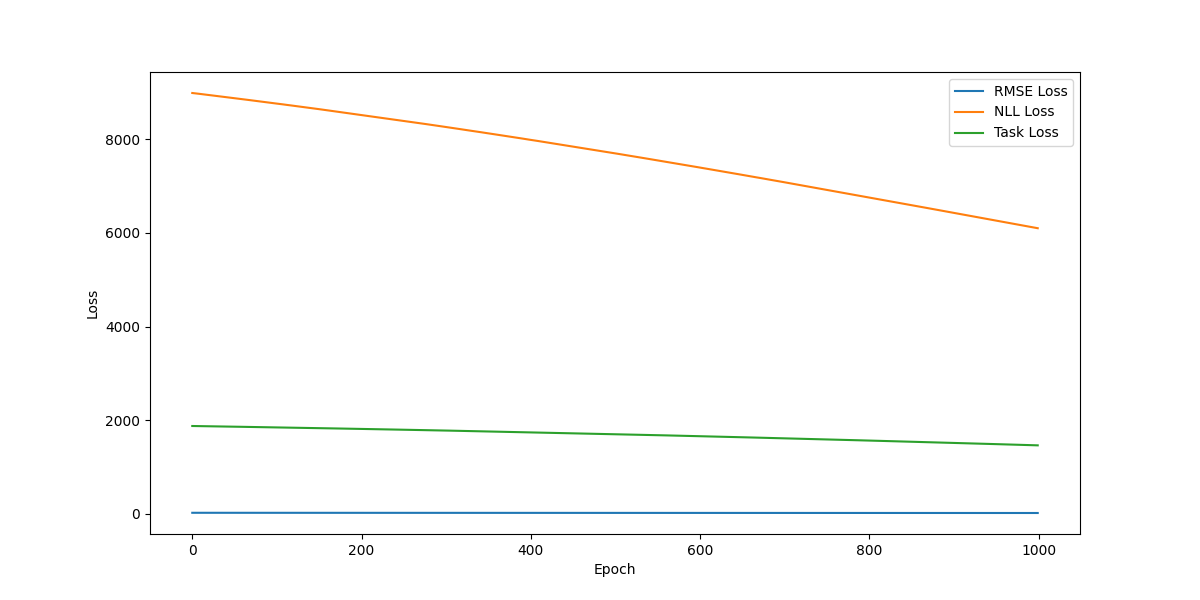
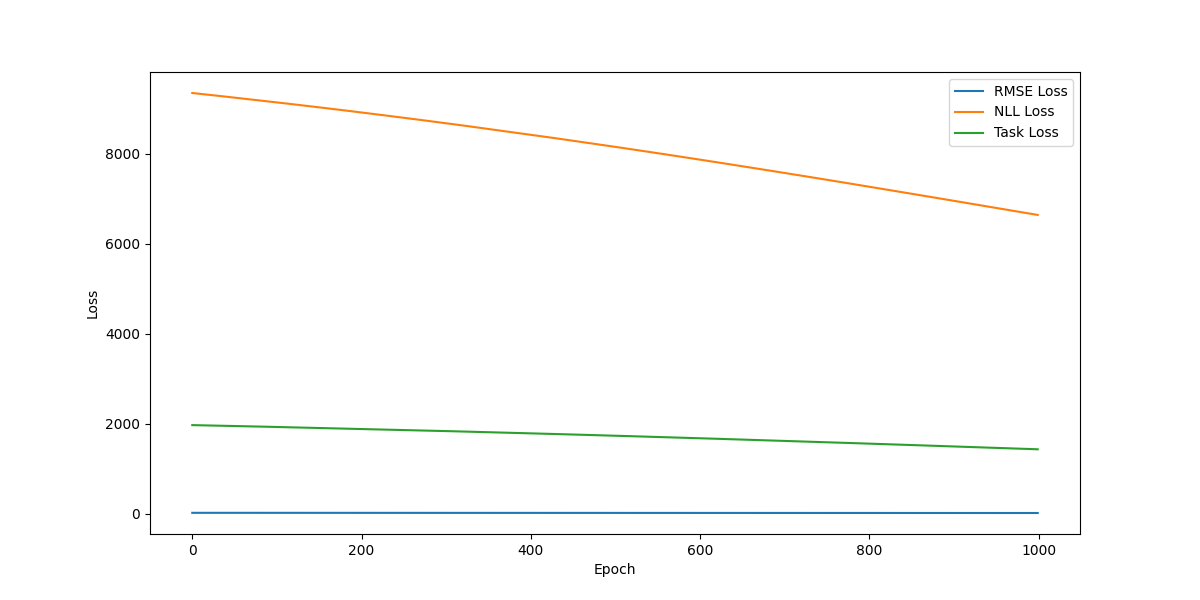
Finished task vs. rmse loss code, data files, just need to add graphs

diff --git a/new_nets.py b/new_nets.py
@@ -7,19 +7,31 @@ import torch.optim as optim
 import model_classes
 from torchdiffeq import odeint
 import math
+import sys
+import csv
 
-def task_loss(Y_sched, Y_actual, params):
+def task_train_loss(Y_sched, Y_actual, params):
     # return (params["gamma_under"] * torch.clamp(Y_actual - Y_sched, min=0) + 
     #         params["gamma_over"] * torch.clamp(Y_sched - Y_actual, min=0) + 
     #         0.5 * (Y_sched - Y_actual)**2).mean()
-    under_loss = params["gamma_under"] * torch.clamp(Y_actual - Y_sched, min=0)
-    over_loss = params["gamma_over"] * torch.clamp(Y_sched - Y_actual, min=0)
-    mse_loss = (Y_sched - Y_actual)**2
-    total_loss = (under_loss + over_loss + mse_loss).mean()
+    under_loss = params["c_b"] * torch.clamp(Y_actual - Y_sched, min=0)
+    over_loss = params["c_h"] * torch.clamp(Y_sched - Y_actual, min=0)
+    under_loss_squared = params["q_b"] * torch.clamp((Y_actual - Y_sched)**2, min=0)
+    over_loss_squared = params["q_h"] * torch.clamp((Y_sched - Y_actual)**2, min=0)
+    total_loss = (under_loss + over_loss + over_loss_squared + under_loss_squared).mean()
     return total_loss
     # return mse_loss.mean()
 
-def rmse_loss(Y_sched, Y_actual):
+def task_test_loss(Y_sched, Y_actual, params):
+    under_loss = params["c_b"] * torch.clamp(Y_actual - Y_sched, min=0)
+    over_loss = params["c_h"] * torch.clamp(Y_sched - Y_actual, min=0)
+    under_loss_squared = params["q_b"] * torch.clamp((Y_actual - Y_sched)**2, min=0)
+    over_loss_squared = params["q_h"] * torch.clamp((Y_sched - Y_actual)**2, min=0)
+    total_loss = (under_loss + over_loss + over_loss_squared + under_loss_squared)
+    return total_loss
+
+
+def rmse_train_loss(Y_sched, Y_actual):
     # mse_loss = nn.MSELoss()
     # mse = mse_loss(Y_sched, Y_actual)
     # rmse = torch.sqrt(mse)
@@ -28,31 +40,36 @@ def rmse_loss(Y_sched, Y_actual):
     rmse = torch.sqrt(mse)  # Compute root mean squared error
     return rmse
 
-def negative_log_likelihood(Y_sched, Y_actual, sigma):
-    n = len(Y_actual)
-    residuals = Y_actual - Y_sched
-    nll = 0.5 * n * torch.log(2 * torch.pi * sigma ** 2) + (residuals ** 2 / (2 * sigma ** 2)).sum()
-    return nll
+def rmse_test_loss(Y_sched, Y_actual):
+    diff = Y_sched - Y_actual
+    se = diff ** 2 # Compute squared error
+    rse = torch.sqrt(se)  # Compute root squared error
+    return rse
+
+# def negative_log_likelihood(Y_sched, Y_actual, sigma):
+#     n = len(Y_actual)
+#     residuals = Y_actual - Y_sched
+#     nll = 0.5 * n * torch.log(2 * torch.pi * sigma ** 2) + (residuals ** 2 / (2 * sigma ** 2)).sum()
+#     return nll
 
 #"which" and "save_folder" parameters not used
-def eval_net(which, variables, params, save_folder):
+def eval_net(loss, variables, params, save_folder):
     func = model_classes.ODEFunc()
 
     #Initialize sigma for NLL loss
-    sigma = torch.tensor([1.0], requires_grad=True)
+    # sigma = torch.tensor([1.0], requires_grad=True)
     # Lists to store loss values for comparison
-    rmse_losses = []
-    nll_losses = []
-    task_losses = []
+    rmse_train_losses = []
+    # nll_losses = []
+    task_train_losses = []
 
     # func.set_beta(0.5)
     y0 = torch.tensor([1938000.0 - 516.0, 0.0, 500.0, 5.0, 0.0, 0.0, 0.0, 5.0, 6.0, 0.0], dtype=torch.float32)
     ode_params = func.parameters()
     opt = optim.Adam(ode_params, lr=1e-3)
-    loss = torch.nn.MSELoss()
+    # loss = torch.nn.MSELoss()
 
     for epoch in range(1000):
-        #Where is this coming from?
         func.train()
         func.reset_t()
         opt.zero_grad()
@@ -66,20 +83,32 @@ def eval_net(which, variables, params, save_folder):
         Y_sched = Y_sched_train_total_hospitalizations.flatten()
         Y_actual = variables['Y_train']
 
-        train_loss = task_loss(Y_sched, Y_actual, params)
-        task_losses.append(train_loss.item())
+        if(loss == "task"):
+            task_loss = task_train_loss(Y_sched, Y_actual, params)
+            task_train_losses.append(task_loss.item())
+        elif(loss == "rmse"):
+            rmse_loss = rmse_train_loss(Y_sched, Y_actual)
+            rmse_train_losses.append(rmse_loss.item())
+        else:
+            sys.stderr.write("Error: Invalid loss function - Must be either 'rmse' or 'task'\n")
+            sys.exit(1)
+        
 
         # Compute RMSE loss
-        rmse = rmse_loss(Y_sched, Y_actual)
-        rmse_losses.append(rmse.item())
+        
         # Compute NLL loss
-        nll = negative_log_likelihood(Y_sched, Y_actual, sigma)
-        nll_losses.append(nll.item())
+        # nll = negative_log_likelihood(Y_sched, Y_actual, sigma)
+        # nll_losses.append(nll.item())
 
         # train_loss = loss(Y_sched_train[:, [6]], variables['Y_train'])
         
         # print(Y_sched_train)
-        train_loss.backward()
+        if(loss == "rmse"):
+            rmse_loss.backward()
+        elif(loss == "task"):
+            task_loss.backward()
+
+        
         torch.nn.utils.clip_grad_norm_(ode_params, 1e-1)
         opt.step()
         #print('beta:', func.beta)
@@ -94,32 +123,62 @@ def eval_net(which, variables, params, save_folder):
         #     test_loss = task_loss(Y_sched_test_total_hospitalizations.float(), variables['Y_test'].float(), params)
         
         # print(i, train_loss.item(), test_loss.item())
-        if epoch % 100 == 0:
-            print(f'Epoch {epoch}: RMSE = {rmse.item():.4f}, NLL = {nll.item():.4f}, Task Loss = {train_loss.item():.4f}')
+        if epoch % 100 == 0 and loss == "task":
+            print(f'Epoch {epoch}: Task Loss = {task_loss.item():.4f}')
+        elif epoch % 100 == 0 and loss == "rmse":
+            print(f'Epoch {epoch}: RMSE Loss = {rmse_loss.item():.4f}')
+
         # import pdb
         # pdb.set_trace()
 
     func.eval()
-    
+    func.reset_t()
+    # task_test_loss
+    # rmse_test_loss
+
+    # with torch.no_grad():
+    Y_sched_test = odeint(func, y0, torch.linspace(0, len(variables['Y_test']) + len(variables['Y_train']), len(variables['Y_test']) + len(variables['Y_train'])), method='rk4')
+    Y_sched_test_new = Y_sched_test[len(variables['Y_train']):]
+    Y_sched_test_total_hospitalizations = Y_sched_test_new[:, 6] + Y_sched_test_new[:, 7]
+    # import pdb
+    # pdb.set_trace()
+    task_testing_loss = task_test_loss(Y_sched_test_total_hospitalizations.float(), variables['Y_test'].float(), params)
+    rmse_testing_loss = rmse_test_loss(Y_sched_test_total_hospitalizations.float(), variables['Y_test'].float())
+
 
     # Output the final RMSE and NLL values
-    print(f'Final RMSE: {rmse.item():.4f}')
-    print(f'Final NLL: {nll.item():.4f}')
+    # print(f'Final RMSE Train Loss: {rmse.item():.4f}')
+    # print(f'Final Task Train Loss: {train_loss.item():.4f}')
 
-    # Plot the loss values
-    import matplotlib.pyplot as plt
+    #Output testing data
+    print("")
+    print("Here's all the testing data:")
+    print("Task Test Loss:")
+    print(task_testing_loss)
+    print("RMSE Test Loss:")
+    print(rmse_testing_loss)
 
-    plt.figure(figsize=(12, 6))
-    plt.plot(rmse_losses, label='RMSE Loss')
-    plt.plot(nll_losses, label='NLL Loss')
-    plt.plot(task_losses, label='Task Loss')
-    plt.xlabel('Epoch')
-    plt.ylabel('Loss')
-    plt.legend()
+    # # Plot the loss values
+    # import matplotlib.pyplot as plt
 
-    save_path = '/Users/amums/dl-research/covid/loss_comparison_plot.png'
-    os.makedirs(os.path.dirname(save_path), exist_ok=True)
-    plt.savefig(save_path)
+    days = np.arange(1, 8)
+    data = np.column_stack((days, task_testing_loss.detach(), rmse_testing_loss.detach()))
 
-    plt.show()
+    with open(loss + '_results.csv', mode='w', newline='') as file:
+        writer = csv.writer(file)
+        writer.writerow(['Day', 'Task Loss', 'RMSE Loss'])
+        writer.writerows(data)
+
+    # plt.figure(figsize=(12, 6))
+    # plt.plot(task_testing_loss, label='Task Loss')
+    # plt.plot(rmse_testing_loss, label='RMSE Loss')
+    # plt.xlabel('Epoch')
+    # plt.ylabel('Loss')
+    # plt.legend()
+
+    # save_path = '/Users/amums/dl-research/covid/loss_comparison_plot.png'
+    # os.makedirs(os.path.dirname(save_path), exist_ok=True)
+    # plt.savefig(save_path)
+
+    # plt.show()
     return func

diff --git a/main.py b/main.py
@@ -28,11 +28,12 @@ from constants import *
 
 def main():
     parser = argparse.ArgumentParser(
-        description='Run electricity scheduling task net experiments.')
+        description='Run covid bed allocation experiment.')
     parser.add_argument('--save', type=str, 
         metavar='save-folder', help='prefix to add to save path')
     parser.add_argument('--nRuns', type=int, default=1,
         metavar='runs', help='number of runs')
+    parser.add_argument('--loss', type=str, default="task")
     args = parser.parse_args()
 
     # Train, test split.
@@ -47,28 +48,29 @@ def main():
     Y_train = torch.tensor(training_data, dtype=torch.float, device=DEVICE)
     Y_test = torch.tensor(testing_data, dtype=torch.float, device=DEVICE)
     
-    variables_rmse = {'Y_train': Y_train, 'Y_test': Y_test}
+    variables = {'Y_train': Y_train, 'Y_test': Y_test}
 
     base_save = 'results' if args.save is None else '{}-results'.format(args.save)
 
-    print(args.nRuns)
+    # print(args.nRuns)
+    loss = args.loss
 
     for run in range(args.nRuns):
-        print (run)
+        # print (run)
 
         save_folder = os.path.join(base_save, str(run))
         if not os.path.exists(save_folder):
             os.makedirs(save_folder)
 
         # Generation scheduling problem params.
-        params = {"n": 24, "c_ramp": 0.4, "gamma_under": 50, "gamma_over": 0.5}
+        params = {"n": 24, "c_ramp": 0.4, "gamma_under": 50, "gamma_over": 0.5, "c_b": 10, "c_h": 1, "q_b": 2, "q_h": 0.5}
 
         # Run and eval rmse-minimizing net
         
         # if USE_GPU:
         #     model_rmse = model_rmse.cuda()
   
-        new_nets.eval_net("rmse_net", variables_rmse, params, save_folder)
+        new_nets.eval_net(loss, variables, params, save_folder)
 
 
 

diff --git a/model_classes.py b/model_classes.py
@@ -266,7 +266,7 @@ class ODEFunc(nn.Module):
         self.lambdas = 1/5.5
         self.rhor = 1/15
         self.rhod = 1/13.3
-        self.beta = nn.Parameter(torch.tensor(0.5,device=DEVICE))
+        self.beta = nn.Parameter(torch.tensor(0.325,device=DEVICE))
         self.t = 0
 
     def set_beta(self,beta):
